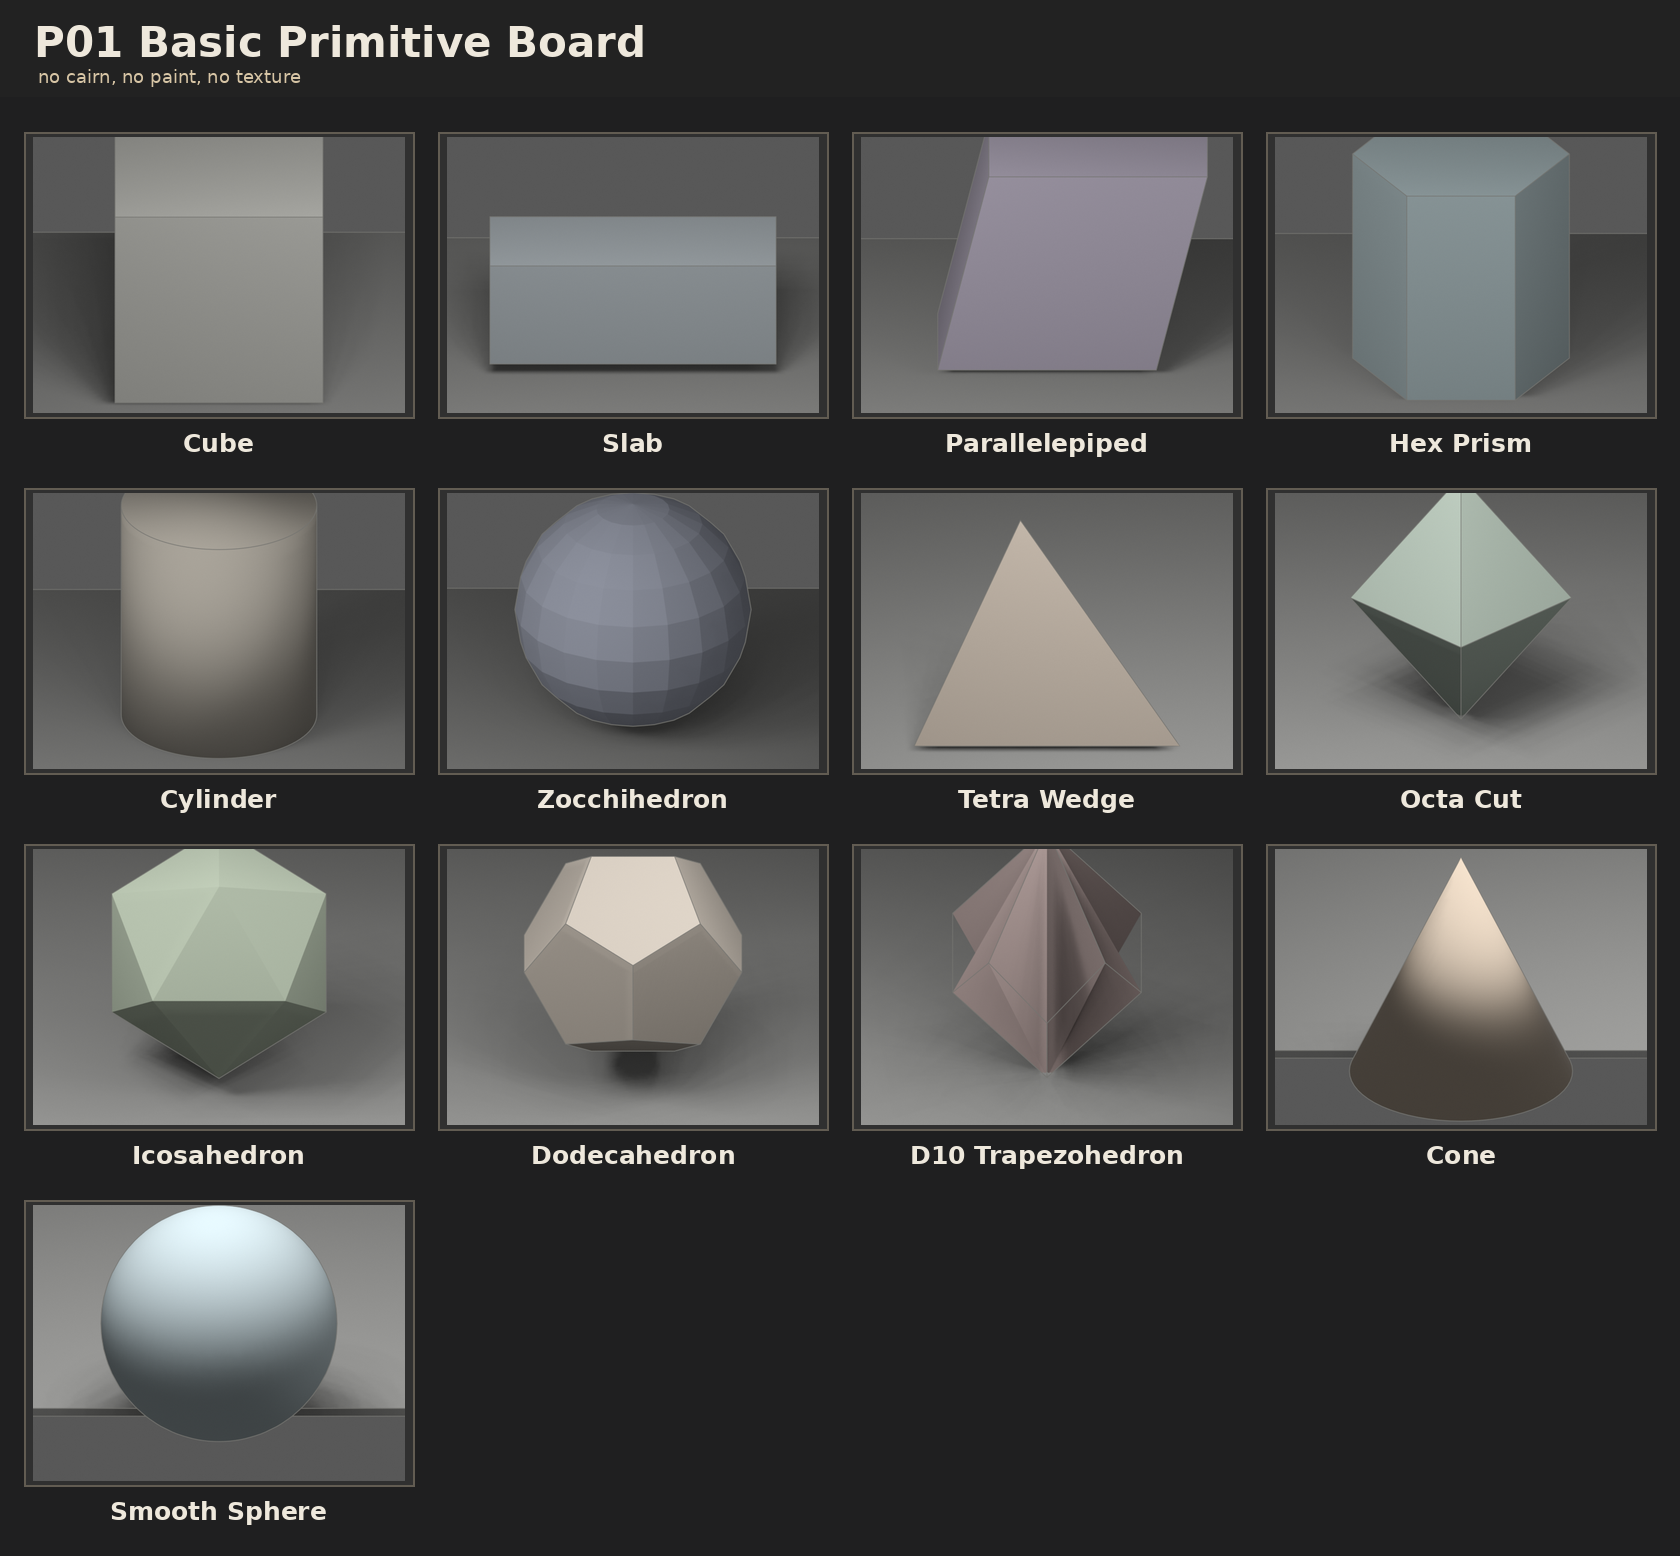
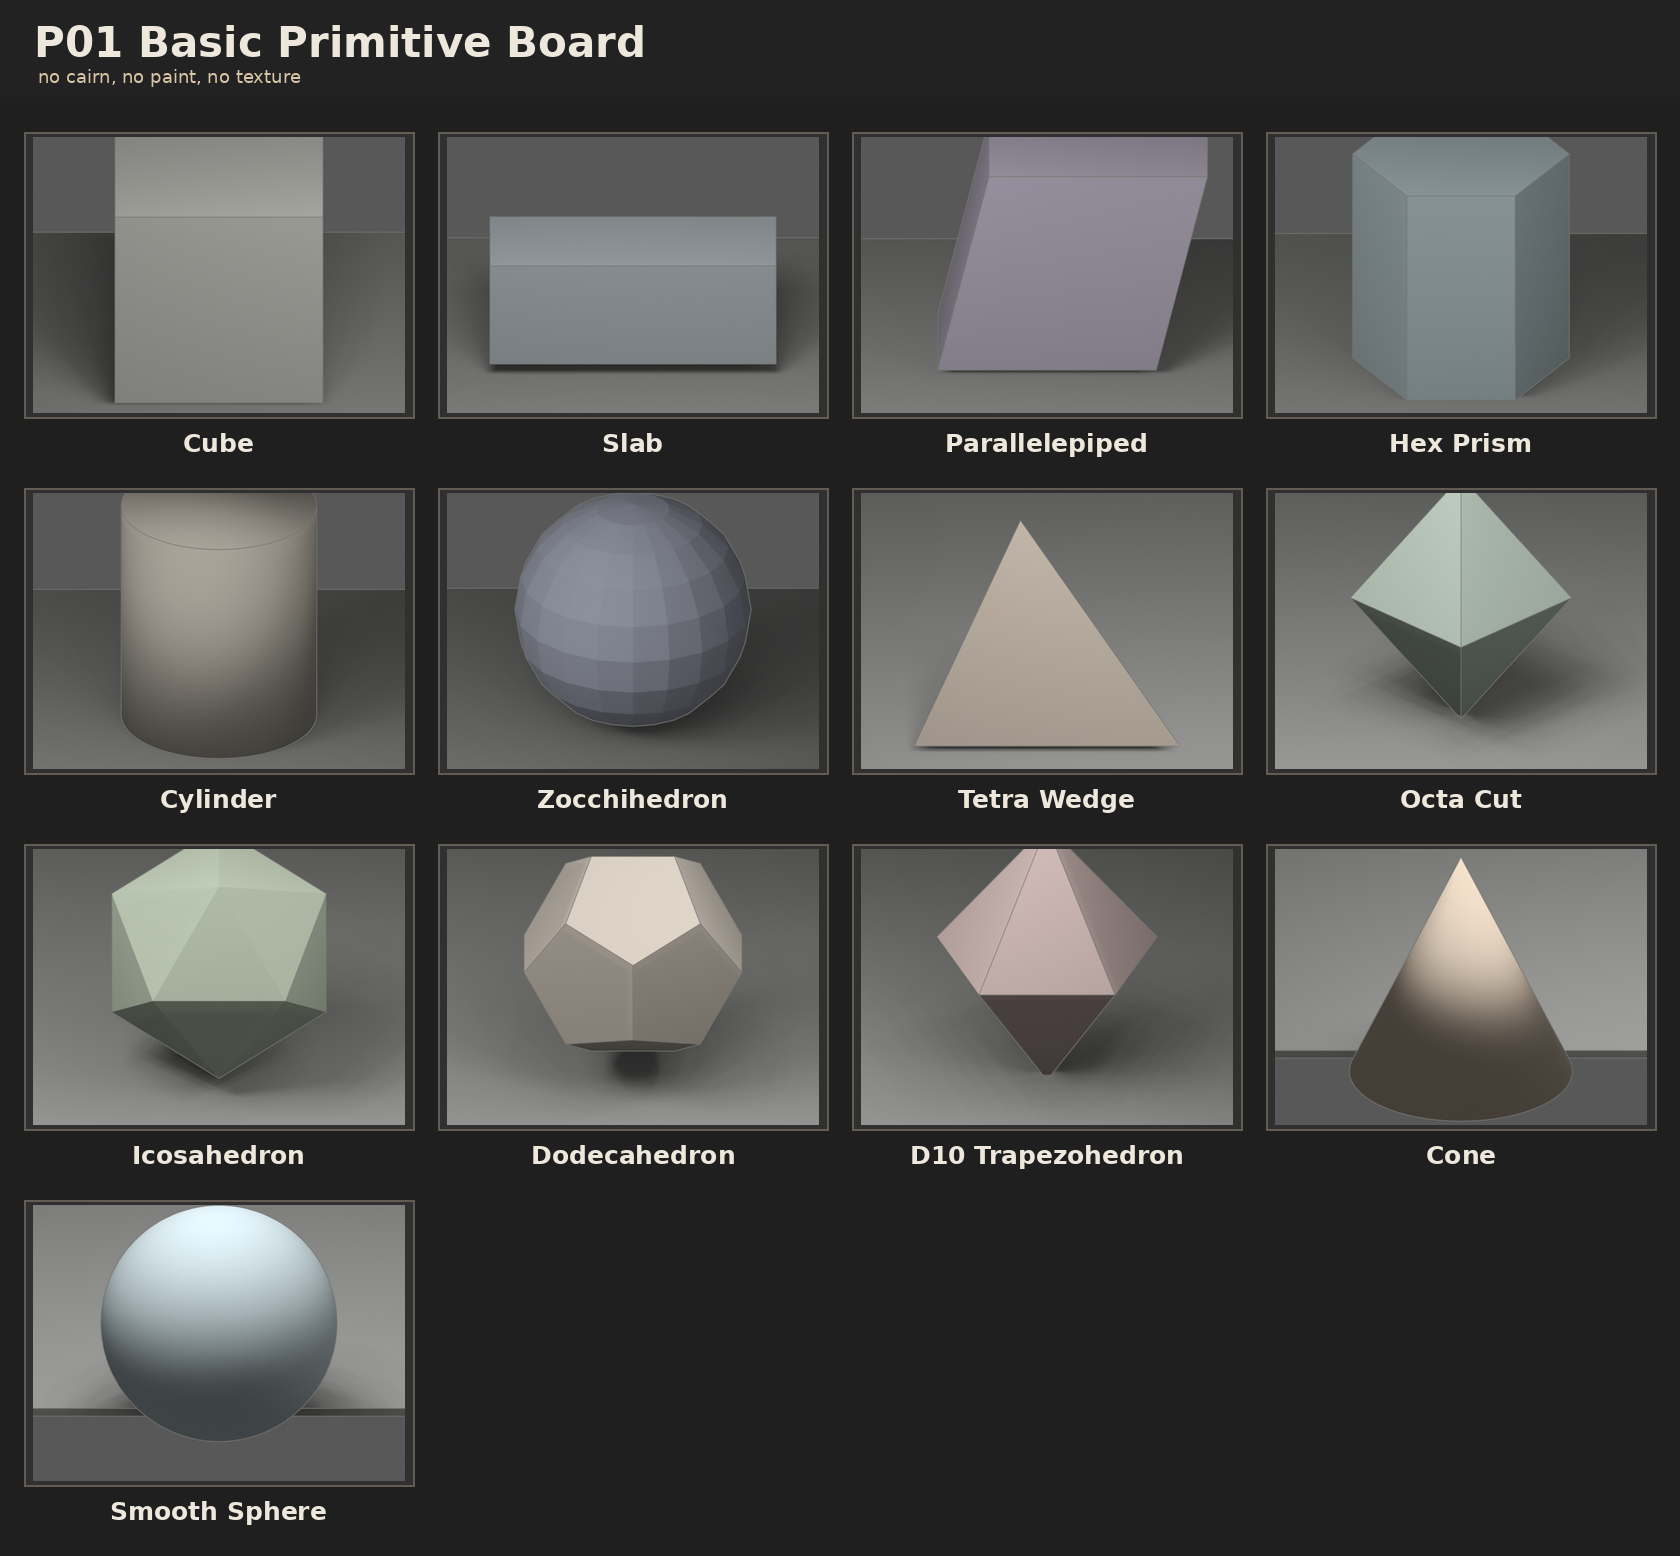
Correct P01 D10 reference primitive

Changed region(s): [[0.5571, 0.5244, 0.681, 0.7095]]

diff --git a/Tools/DCC/build_geometric_primitive_fundamentals.py b/Tools/DCC/build_geometric_primitive_fundamentals.py
@@ -244,16 +244,24 @@ def add_dodecahedron(name: str, location: tuple[float, float, float], material: 
 
 
 def add_pentagonal_trapezohedron(name: str, location: tuple[float, float, float], material: bpy.types.Material) -> bpy.types.Object:
-    ring = []
-    for index in range(10):
-        angle = (math.tau * index / 10.0) + math.radians(18.0)
-        z = 0.28 if index % 2 == 0 else -0.28
-        ring.append((math.cos(angle) * 0.96, math.sin(angle) * 0.96, z))
-    verts = [(0.0, 0.0, 1.35), (0.0, 0.0, -1.35)] + ring
-    faces = []
-    for index in range(10):
-        faces.append((0, 2 + index, 1, 2 + ((index + 1) % 10)))
-    return add_mesh_object(name, verts, faces, location, material, "Pentagonal Trapezohedron")
+    radius = 1.12
+    polar_z = 1.38
+    # The local training reference presents the D10 as a simplified five-waist
+    # form: top pole, bottom pole, and a pentagonal belt. Match that visual
+    # scaffold here instead of using the stricter two-ring deltohedron variant.
+    equator: list[tuple[float, float, float]] = []
+    for index in range(5):
+        angle = (math.tau * index / 5.0) + math.radians(18.0)
+        equator.append((math.cos(angle) * radius, math.sin(angle) * radius, 0.0))
+    verts = [(0.0, 0.0, polar_z), (0.0, 0.0, -polar_z)] + equator
+    faces: list[tuple[int, int, int]] = []
+    for index in range(5):
+        next_index = (index + 1) % 5
+        current = 2 + index
+        next_vertex = 2 + next_index
+        faces.append((0, current, next_vertex))
+        faces.append((1, next_vertex, current))
+    return add_mesh_object(name, verts, faces, location, material, "Pentagonal Trapezohedron Reference Form")
 
 
 def add_zocchihedron(name: str, location: tuple[float, float, float], material: bpy.types.Material) -> bpy.types.Object:

diff --git a/docs/projects/assetforge/RECOVERY_JOURNAL.md b/docs/projects/assetforge/RECOVERY_JOURNAL.md
@@ -431,3 +431,13 @@ Heavy raw outputs remain in ignored `Saved/AssetForgeResearch/` paths. This file
   - `Saved/ProjectRecovery/20260703-195244/recent_project_files.txt`
   - `Saved/ProjectRecovery/20260703-195244/assetforge_recent_saved_outputs.txt`
 - Next resume step: read this entry, then inspect the snapshot folder before continuing any interrupted long job.
+
+### 2026-07-03 20:09:07 EDT -0400 - post corrected P01 D10 trapezohedron reference form
+
+- Snapshot: `Saved/ProjectRecovery/20260703-200907/`
+- Git: branch `main`, HEAD `8f97153`, status lines `4`
+- Recovery files:
+  - `Saved/ProjectRecovery/20260703-200907/git_status_short.txt`
+  - `Saved/ProjectRecovery/20260703-200907/recent_project_files.txt`
+  - `Saved/ProjectRecovery/20260703-200907/assetforge_recent_saved_outputs.txt`
+- Next resume step: read this entry, then inspect the snapshot folder before continuing any interrupted long job.

diff --git a/docs/assets/training/GEOMETRIC_PRIMITIVE_TO_CAIRNSTONE_LADDER.md b/docs/assets/training/GEOMETRIC_PRIMITIVE_TO_CAIRNSTONE_LADDER.md
@@ -32,7 +32,7 @@ Allowed forms:
 - Octa cut
 - Icosahedron
 - Dodecahedron
-- Pentagonal trapezohedron / D10 form
+- Pentagonal trapezohedron / D10 reference form, matched to `docs/assets/reference/geometric_image_training/REF_AET_GeometricImageTraining_pentagonal_trapezohedron.png`
 - Zocchihedron / high-facet rounded form
 
 Approval question: Are the basic shapes readable and clean enough to use as construction pieces?